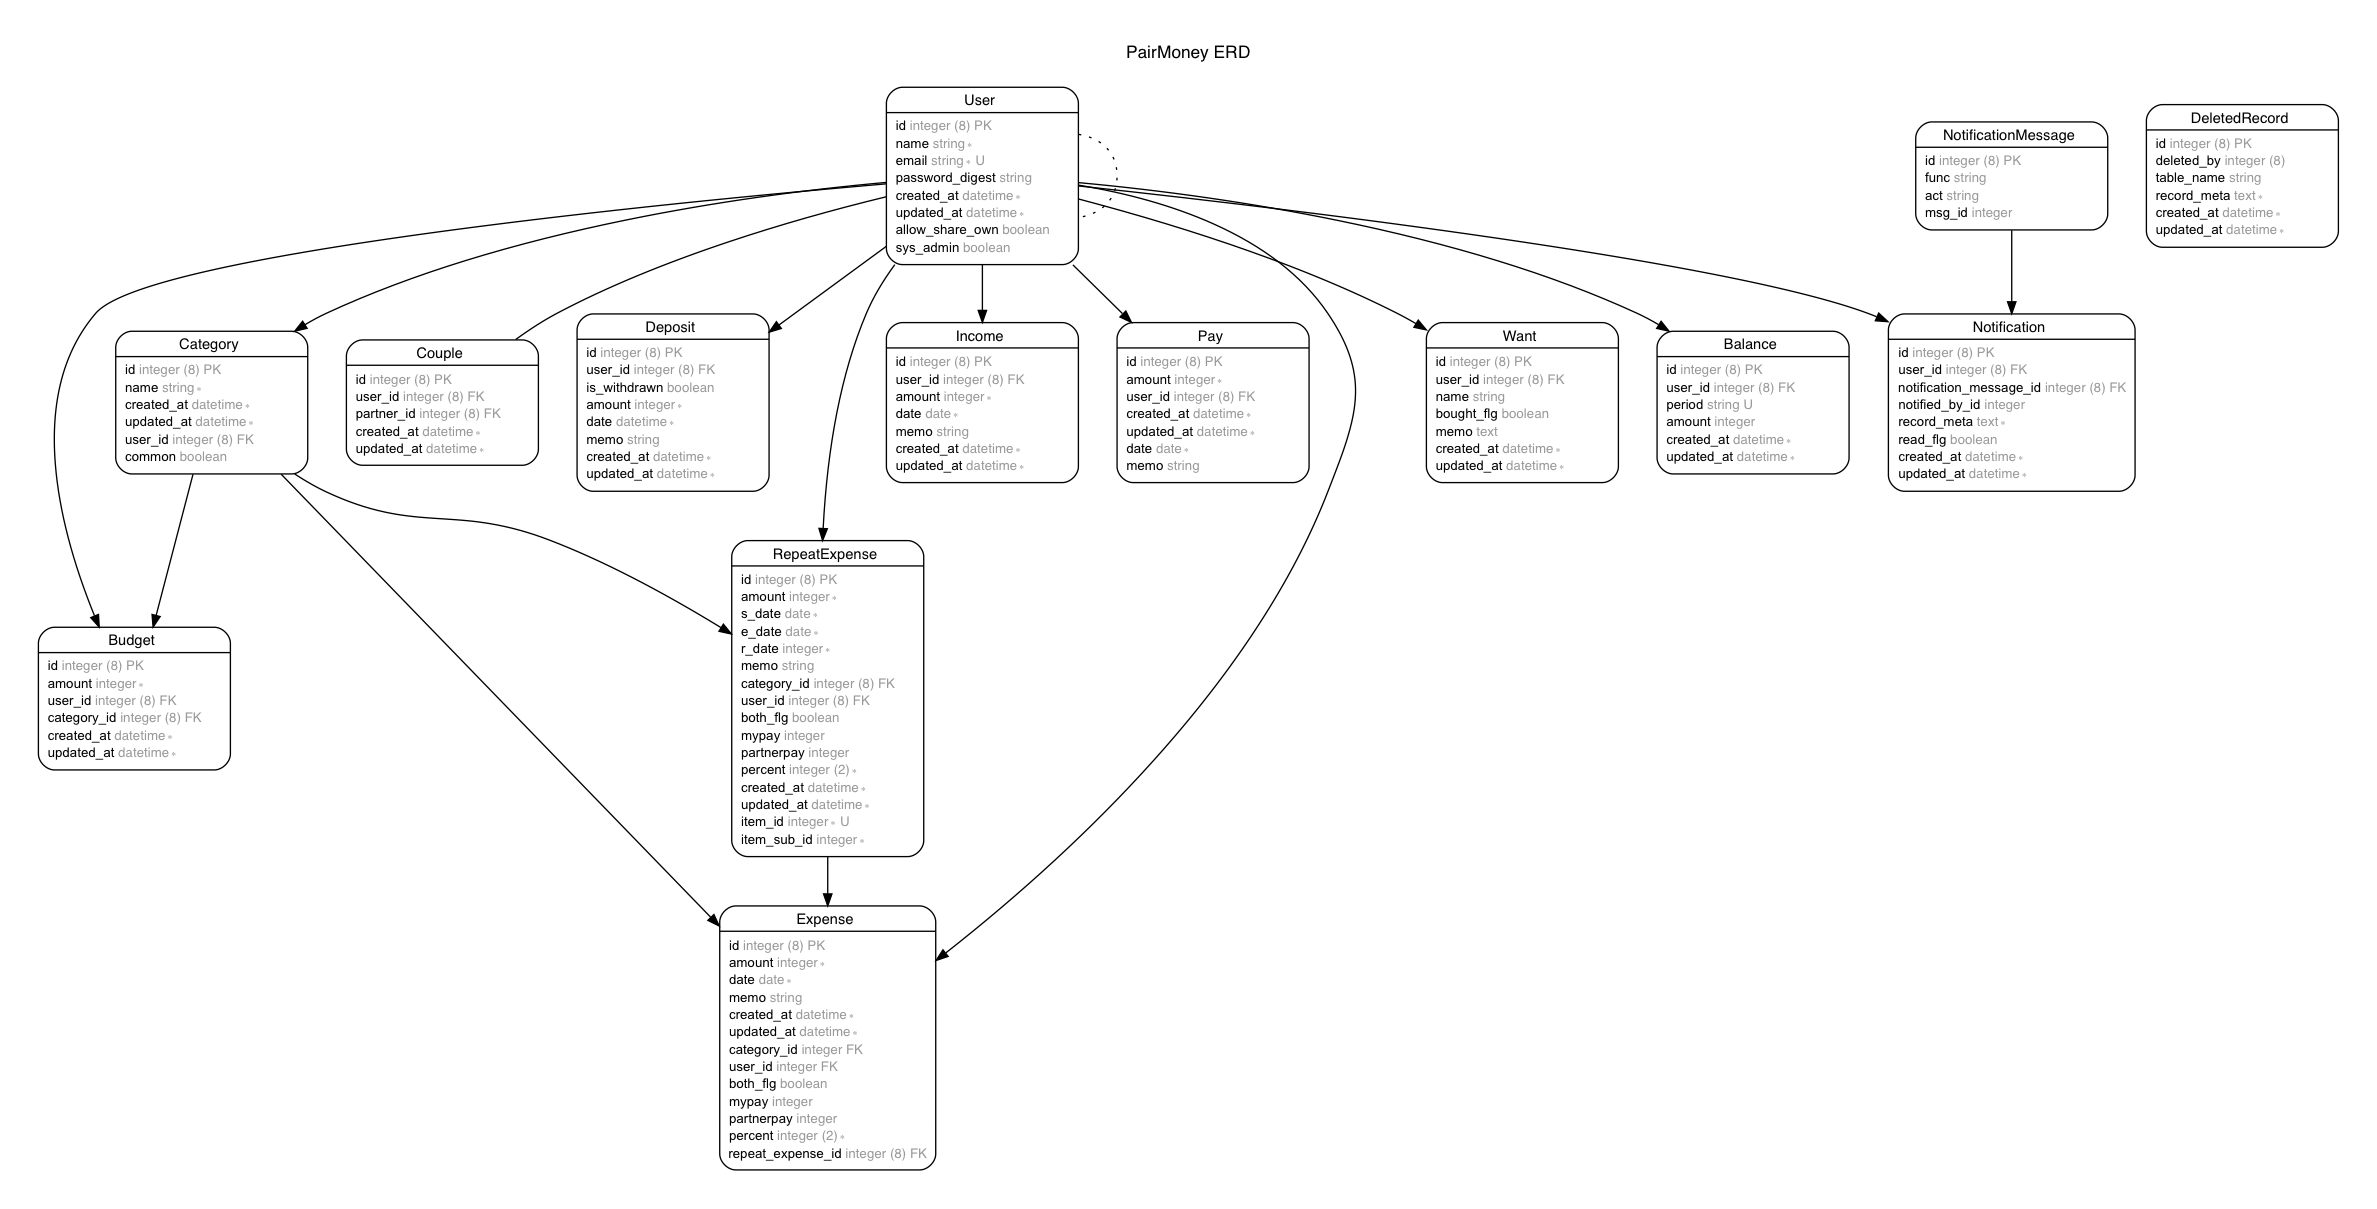
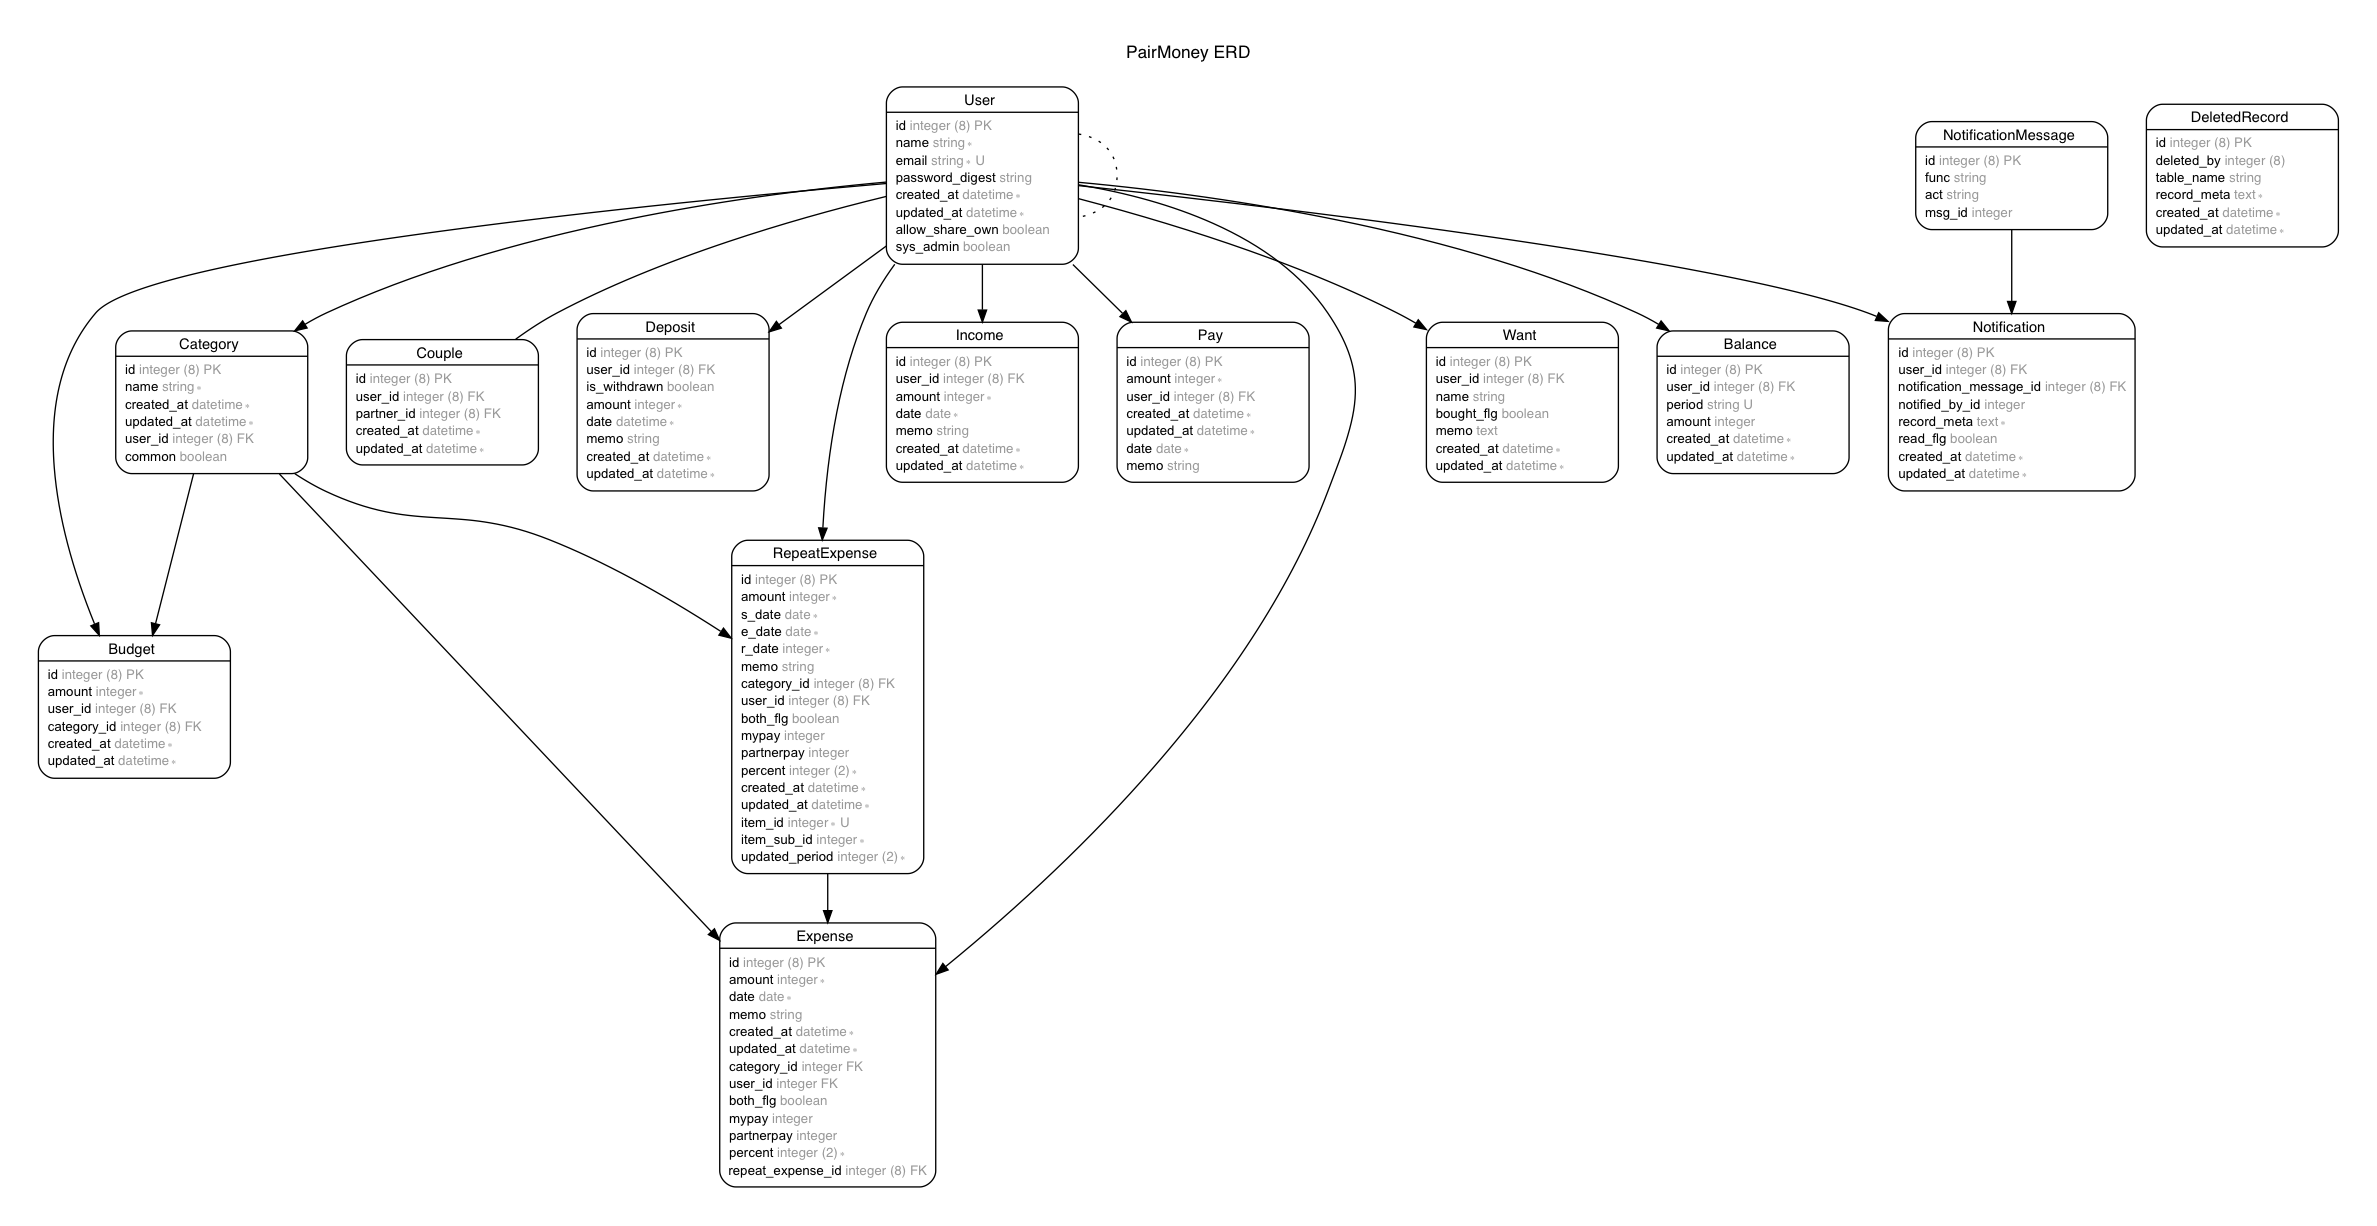
repeat_expensesにupdated_periodフィールドを追加して、updateされる出費を保持 #56

diff --git a/app/controllers/repeat_expenses_controller.rb b/app/controllers/repeat_expenses_controller.rb
@@ -47,23 +47,23 @@ class RepeatExpensesController < ApplicationController
     @repeat_expense = RepeatExpense.find(params[:id])
     new_repeat_expense = @current_user.repeat_expenses.build(repeat_expense_params)
     new_repeat_expense.set_next_item_sub_id(@repeat_expense)
-    if params[:future_expenses].present? && @repeat_expense.s_date != new_repeat_expense.s_date && @repeat_expense.s_date < Date.current
+    if new_repeat_expense.updated_only_future? && @repeat_expense.s_date != new_repeat_expense.s_date && @repeat_expense.s_date < Date.current
       flash.now[:error] = ["未来の出費のみ変更する場合、今日より過去に設定されている開始日は変更できません。"]
       @repeat_expense.assign_attributes(repeat_expense_params)
       @categories = Category.ones_categories(@current_user)
       render 'edit' and return
     end
 
-    if params[:future_expenses].present?
-      expenses = @repeat_expense.expenses.where('date >= ?', Date.current)
-    else
-      expenses = @repeat_expense.expenses
+    if new_repeat_expense.updated_only_future?
+      destroy_target_expenses = @repeat_expense.expenses.where('date >= ?', Date.current)
+    elsif new_repeat_expense.updated_all?
+      destroy_target_expenses = @repeat_expense.expenses
     end
     ActiveRecord::Base.transaction do
       if new_repeat_expense.save
-        expenses.destroy_all
+        destroy_target_expenses.destroy_all
         begin
-          Expense.creat_repeat_expenses!(new_repeat_expense, is_only_future: params[:future_expenses].present?)
+          Expense.creat_repeat_expenses!(new_repeat_expense)
         rescue
           flash.now[:error] = ["繰り返し出費に紐づいている各出費の登録に失敗しました。"]
           raise ActiveRecord::Rollback
@@ -94,6 +94,12 @@ class RepeatExpensesController < ApplicationController
 
   private
   def repeat_expense_params
-    params.require(:repeat_expense).permit(:amount, :category_id, :s_date, :e_date, :r_date, :memo, :both_flg, :mypay, :partnerpay).merge(percent: params[:repeat_expense][:percent].to_i)
+    permitted_params = params.require(:repeat_expense).permit(:amount, :category_id, :s_date, :e_date, :r_date, :memo, :both_flg, :mypay, :partnerpay).merge(percent: params[:repeat_expense][:percent].to_i)
+    if params[:updated_only_future].present?
+      permitted_params.merge!(updated_period: "updated_only_future")
+    elsif params[:updated_all].present?
+      permitted_params.merge!(updated_period: "updated_all")
+    end
+    permitted_params
   end
 end

diff --git a/app/models/repeat_expense.rb b/app/models/repeat_expense.rb
@@ -4,24 +4,25 @@
 #
 # ### Columns
 #
-# Name               | Type               | Attributes
-# ------------------ | ------------------ | ---------------------------
-# **`id`**           | `bigint(8)`        | `not null, primary key`
-# **`amount`**       | `integer`          |
-# **`both_flg`**     | `boolean`          | `default(FALSE)`
-# **`e_date`**       | `date`             |
-# **`memo`**         | `string`           |
-# **`mypay`**        | `integer`          |
-# **`partnerpay`**   | `integer`          |
-# **`percent`**      | `integer`          | `default("pay_all"), not null`
-# **`r_date`**       | `integer`          |
-# **`s_date`**       | `date`             |
-# **`created_at`**   | `datetime`         | `not null`
-# **`updated_at`**   | `datetime`         | `not null`
-# **`category_id`**  | `bigint(8)`        |
-# **`item_id`**      | `integer`          | `not null`
-# **`item_sub_id`**  | `integer`          | `not null`
-# **`user_id`**      | `bigint(8)`        |
+# Name                  | Type               | Attributes
+# --------------------- | ------------------ | ---------------------------
+# **`id`**              | `bigint(8)`        | `not null, primary key`
+# **`amount`**          | `integer`          |
+# **`both_flg`**        | `boolean`          | `default(FALSE)`
+# **`e_date`**          | `date`             |
+# **`memo`**            | `string`           |
+# **`mypay`**           | `integer`          |
+# **`partnerpay`**      | `integer`          |
+# **`percent`**         | `integer`          | `default("pay_all"), not null`
+# **`r_date`**          | `integer`          |
+# **`s_date`**          | `date`             |
+# **`updated_period`**  | `integer`          | `default(0), not null`
+# **`created_at`**      | `datetime`         | `not null`
+# **`updated_at`**      | `datetime`         | `not null`
+# **`category_id`**     | `bigint(8)`        |
+# **`item_id`**         | `integer`          | `not null`
+# **`item_sub_id`**     | `integer`          | `not null`
+# **`user_id`**         | `bigint(8)`        |
 #
 # ### Indexes
 #
@@ -46,6 +47,8 @@ class RepeatExpense < ApplicationRecord
   include PercentCalculator
 
   enum percent: { manual_amount: -1, pay_all: 0, pay_half: 1, pay_one_third: 2, pay_two_thirds: 3, pay_nothing: 4 }
+
+  enum updated_period: { first_item: 0, updated_all: 1, updated_only_future: 2 }
 
   belongs_to :category
   belongs_to :user

diff --git a/db/schema.rb b/db/schema.rb
@@ -10,7 +10,7 @@
 #
 # It's strongly recommended that you check this file into your version control system.
 
-ActiveRecord::Schema.define(version: 2019_06_23_040934) do
+ActiveRecord::Schema.define(version: 2019_06_28_233621) do
 
   # These are extensions that must be enabled in order to support this database
   enable_extension "plpgsql"
@@ -144,6 +144,7 @@ ActiveRecord::Schema.define(version: 2019_06_23_040934) do
     t.datetime "updated_at", null: false
     t.integer "item_id", null: false
     t.integer "item_sub_id", null: false
+    t.integer "updated_period", limit: 2, default: 0, null: false
     t.index ["category_id"], name: "index_repeat_expenses_on_category_id"
     t.index ["user_id", "item_id", "item_sub_id"], name: "index_repeat_expenses_on_user_id_and_item_id_and_item_sub_id", unique: true
     t.index ["user_id"], name: "index_repeat_expenses_on_user_id"

diff --git a/app/models/expense.rb b/app/models/expense.rb
@@ -146,10 +146,10 @@ class Expense < ApplicationRecord
   end
 
   # 新しく繰り返し出費が登録されたときに、expensesテーブルに該当する出費をインサートしていくメソッド
-  def self.creat_repeat_expenses!(repeat_expense, is_only_future: false)
+  def self.creat_repeat_expenses!(repeat_expense)
     expense_attributes = {}
     repeat_expense.attributes.each{ |k, v| expense_attributes["#{k}"] = v if Expense.necessary_attributes_from_repeat_exepnses.include?(k) }
-    s_date = is_only_future ? Date.current : repeat_expense.s_date
+    s_date = repeat_expense.updated_only_future? ? Date.current : repeat_expense.s_date
     e_date = repeat_expense.e_date
     r_date = repeat_expense.r_date
     (s_date..e_date).select{|d| d.day == r_date }.each do |date|

diff --git a/db/migrate/20190628233621_add_updated_period_to_repeat_expenses.rb b/db/migrate/20190628233621_add_updated_period_to_repeat_expenses.rb
@@ -1,0 +1,5 @@
+class AddUpdatedPeriodToRepeatExpenses < ActiveRecord::Migration[5.2]
+  def change
+    add_column :repeat_expenses, :updated_period, :integer, limit: 2, null: false, default: 0
+  end
+end
